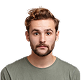
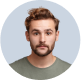
Global Community Section is Complete in DhyanLife

diff --git a/index.html b/index.html
@@ -240,6 +240,35 @@
           </div>
         </div>
        </div>
+
+      <!-- Global Community Section -->
+
+      <div class="community-sec">
+        <div class="community-container max-width-1320px mx-auto">
+          <p class="community-container-main-heading elsie-font-family fw-400 fs-45px text-center mb-5 sim-black-color">Hear what our global community has to say</p>
+
+          <div class="community-persons-sec d-flex flex-wrap justify-content-center text-center">
+            <div class="person-benjamin">
+              <img class="mb-3" src="./Assets/Benjamin Evans.png" alt="">
+              <p class="community-persons-name mb-2 elsie-font-family fw-400 fs-24px sim-black-color">Benjamin Evans</p>
+              <p class="community-persons-field mb-4 elsie-font-family fw-400 fs-14px sim-black-color">Product Designer</p>
+              <p class="community-persons-para inter-font-family fw-400 fs-18px">Our company experiences rapid growth, the ease of adopting new solutions becomes paramount. Slite stands out as a friendly and easily adoptable platform, facilitating seamless integration into our workflow.Its user-friendly interface. </p>
+            </div>
+            <div class="person-harper">
+              <img  class="mb-3" src="./Assets/Harper Williams.png" alt="">
+              <p class="community-persons-name mb-2 elsie-font-family fw-400 fs-24px white-color">Harper Williams</p>
+              <p class="community-persons-field mb-4 white-color elsie-font-family fw-400 fs-14px">Sales Manger</p>
+              <p class="community-persons-para white-color inter-font-family fw-400 fs-18px">Slite has revolutionized the way our entire team operates, ensuring everyone is aligned and moving forward at an accelerated pace. With Slite, Pagedone staff seamlessly function as a unified team,  regardless of time zones or</p>
+            </div>
+            <div class="person-sophia">
+              <img  class="mb-3" src="./Assets/Sophia Rodriguez.png" alt="">
+              <p class="community-persons-name mb-2 elsie-font-family fw-400 fs-24px sim-black-color">Sophia Rodriguez</p>
+              <p class="community-persons-field mb-4 elsie-font-family fw-400 fs-14px sim-black-color">CEO</p>
+              <p class="community-persons-para inter-font-family fw-400 fs-18px">Our team has expanded rapidly over the past year, spanning across different offices, Slite has played a vital role in supporting our growth trajectory. With its structured platform, Slite provides a centralized hub where team</p>
+            </div>
+          </div>
+        </div>
+      </div>
   </body>
 
   <!-- Bootstrap JS Link -->

diff --git a/CSS/style.css b/CSS/style.css
@@ -452,3 +452,46 @@
     font-size: 25px !important;
   }
 }
+
+/* Global Community Section */
+
+.community-container {
+  padding: 100px 0 !important;
+}
+
+.community-persons-sec {
+  flex-wrap: wrap !important;
+  gap: 20px;
+}
+.community-persons-sec .person-benjamin,
+.community-persons-sec .person-harper,
+.community-persons-sec .person-sophia {
+  width: 30%;
+  padding: 50px !important;
+  border-radius: 250px;
+  box-shadow: 0 0px 1px 0 rgba(0, 0, 0, 0.1), 0 0px 14px 0 rgba(0, 0, 0, 0.1);
+}
+
+.community-persons-sec .person-harper {
+  background-color: var(--sim-light-green-color);
+}
+
+@media screen and (max-width: 950px) {
+  .community-container .community-persons-sec {
+    display: block !important;
+  }
+
+  .community-persons-sec .person-benjamin,
+  .community-persons-sec .person-harper,
+  .community-persons-sec .person-sophia {
+    width: 90%;
+    margin: 20px auto 0 !important;
+    border-radius: 100px;
+  }
+}
+
+@media screen and (max-width: 400px) {
+  .community-container-main-heading {
+    font-size: 25px !important;
+  }
+}
